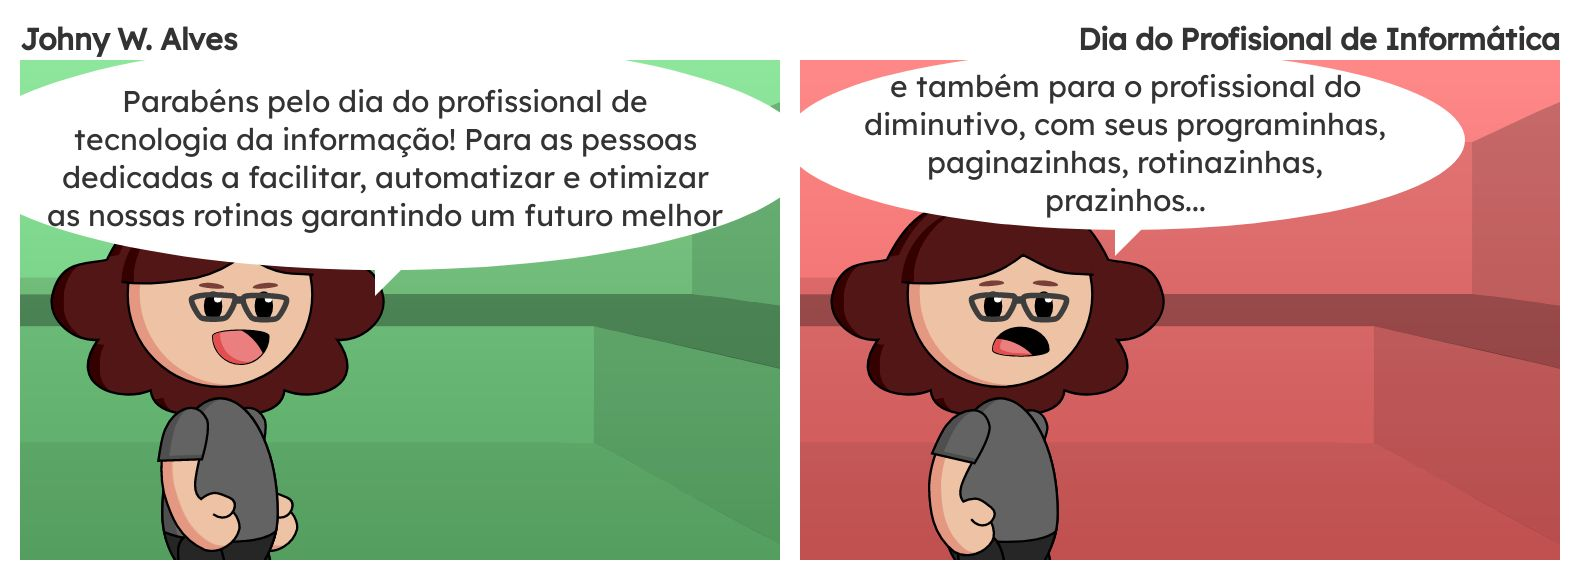
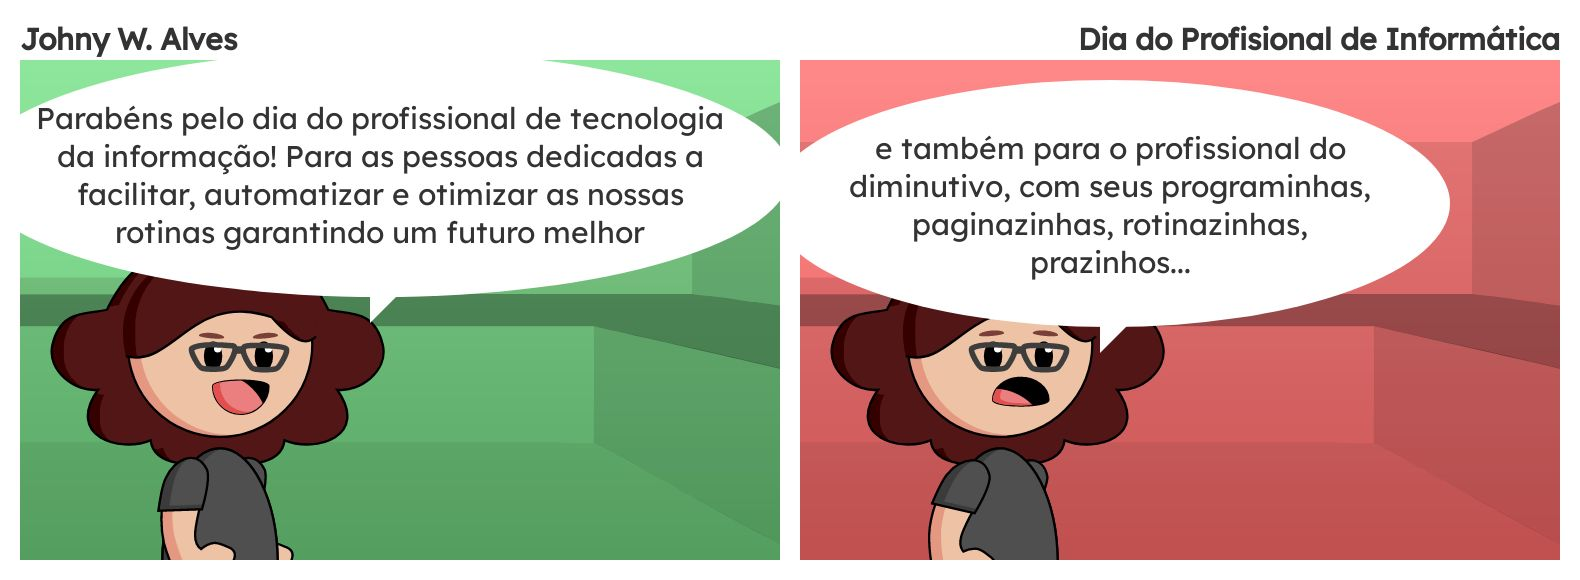
:recycle: Reorganizar as tirinhas e thumbnail

Changed region(s): [[0.0, 0.0931, 0.9304, 0.9931]]

diff --git a/posts/2022-03-08-Comic_17.md b/posts/2022-03-08-Comic_17.md
@@ -3,7 +3,7 @@ date: 2022-03-24 12:28:24 -0300
 title: Foco, Força e Fé
 category: Comic
 featuredImage: ./comics/0017.jpg
-coverImage: /comics/0017-thumb.jpg
+coverImage: /comics/0017.jpg
 number: 17
 transcription: Tirinha com título Foco, Força e Fé e conteúdo Quadro 1. Sophie e Msone conversando no escritório Msone fala "Gostaria de aproveitar esse dia da mulher para dizer como admiro seu trabalho e conhecimento técnico". Quadro 2. Sophie fala "Obrigado, você tem um futuro mais brilhante que o meu, só se dedicar aos estudos e projetos". Quadro 3. Msone fala "Calma! Admiração é uma coisa, estar disposta a alcançar os mesmos resultados é outra".
 tags:

diff --git a/posts/2022-04-01-Comic_18.md b/posts/2022-04-01-Comic_18.md
@@ -3,7 +3,7 @@ date: 2022-04-01 12:01:56 -0300
 title: Desenvolvimento Moderno
 category: Comic
 featuredImage: ./comics/0018.jpg
-coverImage: /comics/0018-thumb.jpg
+coverImage: /comics/0018.jpg
 number: 18
 transcription: Tirinha com título Desenvolvimento Moderno e conteúdo Quadro 1. Sophie e Afonso conversando no escritório Afonso fala "Aquele projeto grande que estavamos planejando, temos todos os passos para execução dele". Quadro 2. Sophie fala "Não seria melhor integrar o cliente no processo e ajustando com os retornos dos progressos?". Quadro 3. Afonso fala "Parece uma boa, mas vamos fazer do jeito mais tradicional, dá certo na engenheria civil".
 tags:

diff --git a/posts/2021-06-18-Comic_14.md b/posts/2021-06-18-Comic_14.md
@@ -3,7 +3,7 @@ date: 2021-06-18 18:27:36 -0300
 title: Belo Design
 category: Comic
 featuredImage: ./comics/0014.jpg
-coverImage: /comics/0014-thumb.jpg
+coverImage: /comics/0014.jpg
 number: 14
 transcription: Quadro 1. Rafiq na mesa desenhando Msone fala "Parabéns pela estética e inovação, mas nosso tempo é escasso vamos ter dificuldades para implementar isso". Quadro 2. Sophie entra na sala Sophie fala "Nossa! Estou ansiosa para trabalhar com algo tão belo e inovador". Quadro 3. Msone e Rafiq se olham em silêncio enquanto Sophie sai da sala. Quadro 4. Msone fala "Você sabe que vai sobrar para mim essa tarefa de qualquer maneira".
 tags:

diff --git a/posts/2020-11-26-Comic_11.md b/posts/2020-11-26-Comic_11.md
@@ -3,7 +3,7 @@ date: 2020-11-26 12:09:24 -0300
 title: Sintaxe
 category: Comic
 featuredImage: ./comics/0011.jpg
-coverImage: /comics/0011-thumb.jpg
+coverImage: /comics/0011.jpg
 number: 11
 transcription: Quadro 1 "Python". Afonso fala "Por que não está rodando?" Afonso fala "Desculpe, mas o código deve estar lindo para rodar". Quadro 2 "TypeScript". Afonso fala "Por que não está rodando?" Afonso fala "Foi mal, você não declarou todos os tipos que está usando". Quadro 3 "JavaScript". Afonso fala "Por que não está rodando?" Afonso fala "Rodando? Sempre! Só não garanto os resultados que você deseja".
 tags:

diff --git a/posts/2022-02-25-Comic_16.md b/posts/2022-02-25-Comic_16.md
@@ -3,7 +3,7 @@ date: 2022-02-25 20:32:42 -0300
 title: Vantagens
 category: Comic
 featuredImage: ./comics/0016.jpg
-coverImage: /comics/0016-thumb.jpg
+coverImage: /comics/0016.jpg
 number: 16
 transcription: Quadro 1. Afonso fala "Nossa empresa tem horário flexível, ambiente dinâmico e inovador". Quadro 2. Msone fala "Por favor leia como hora extra não remunerada, falta de planejamento e modelo de negócio tradicional". Quadro 3. Afonso fala "Temos café a vontade para ajudar na sua disposição e produtividade". Quadro 4. Msone fala "O que foi? É isso mesmo, não crítico café grátis.".
 tags:

diff --git a/posts/2022-05-06-Comic_19.md b/posts/2022-05-06-Comic_19.md
@@ -3,7 +3,7 @@ date: 2022-05-06 11:15:32 -0300
 title: Pausa para o café
 category: Comic
 featuredImage: ./comics/0019.jpg
-coverImage: /comics/0019-thumb.jpg
+coverImage: /comics/0019.jpg
 number: 19
 transcription: Tirinha com título Pausa para o café e conteúdo Quadro 1. Afonso e Msone conversando na cafeteria Afonso fala "Preciso falar com você sobre o projeto...". Quadro 2. Msone fala "Estou na pausa do café logo depois volto para a mesa e conversamos". Quadro 3. Afonso fala "Se você respondesse minhas mensagens de lá, não estava te procurando aqui".
 tags:

diff --git a/posts/2020-10-19-Comic_8.md b/posts/2020-10-19-Comic_8.md
@@ -3,7 +3,7 @@ date: 2020-10-19 13:43:08 -0300
 title: Dia do profissional de informática
 category: Comic
 featuredImage: ./comics/0008.jpg
-coverImage: /comics/0008-thumb.jpg
+coverImage: /comics/0008.jpg
 number: 8
 transcription: Quadro 1. Msone fala "Parabéns pelo dia do profissional de tecnologia da informação! Para as pessoas dedicadas a facilitar, automatizar e otimizar as nossas rotinas garantindo um futuro melhor". Quadro 2. Msone fala "e também para o profissional do diminutivo, com seus programinhas, paginazinhas, rotinazinhas, prazinhos...".
 tags:

diff --git a/posts/2022-06-16-Comic_21.md b/posts/2022-06-16-Comic_21.md
@@ -3,7 +3,7 @@ date: 2022-06-16 07:35:02 -0300
 title: Tentação
 category: Comic
 featuredImage: ./comics/0021.jpg
-coverImage: /comics/0021-thumb.jpg
+coverImage: /comics/0021.jpg
 number: 21
 transcription: Tirinha com título Tentação e conteúdo Quadro 1. Msone pensando sozinha Msone pensa "Preciso decidir como melhorar esse código..." Msone (Lado mal) fala "Deixa ele assim, você refatora depois". Quadro 2.. Quadro 3.. Quadro 4. Sol fala "Cadê a pessoa que dá bons conselhos?" Msone (Lado mal) fala "Você realmente acredita na existência dela?".
 tags:

diff --git a/posts/2022-09-13-Comic_24.md b/posts/2022-09-13-Comic_24.md
@@ -3,7 +3,7 @@ date: 2022-09-13 08:59:23 -0300
 title: Felicitações
 category: Comic
 featuredImage: ./comics/0024.jpg
-coverImage: /comics/0024-thumb.jpg
+coverImage: /comics/0024.jpg
 number: 24
 transcription: Tirinha com título Felicitações e conteúdo Quadro 1. Afonso fala "Felicitações para o dia dos desenvolvedores! Por que é hoje? Data de morte de alguém?" Sophie fala "É o dia 256 do ano! A maior elevação de 2 possível". Quadro 2. Msone fala "É numerologia e astrologia? Não sabia que eram supersticiosas!".
 tags:

diff --git a/posts/2021-12-03-Comic_15.md b/posts/2021-12-03-Comic_15.md
@@ -3,7 +3,7 @@ date: 2021-12-03 10:58:42 -0300
 title: Hype
 category: Comic
 featuredImage: ./comics/0015.jpg
-coverImage: /comics/0015-thumb.jpg
+coverImage: /comics/0015.jpg
 number: 15
 transcription: Quadro 1. Sophie e Afonso conversando no escritório Afonso fala "...então vamos colocar NFT nesse projeto.". Quadro 2. Sophie fala "Desculpe, mas não entendi o motivo, temos um servidor centralizando as operações". Quadro 3. Afonso fala "Nem sei o que é NFT. Só vamos colocar por que vende melhor.".
 tags:

diff --git a/posts/2020-10-18-Comic_7.md b/posts/2020-10-18-Comic_7.md
@@ -3,7 +3,7 @@ date: 2020-10-18 10:10:24 -0300
 title: Sonho de infância
 category: Comic
 featuredImage: ./comics/0007.jpg
-coverImage: /comics/0007-thumb.jpg
+coverImage: /comics/0007.jpg
 number: 7
 transcription: Quadro 1. Sophie fala "Por que você escolheu a área de desenvolvimento?" Msone fala "Sonho de infância, para desenvolver video game". Quadro 2. Sophie fala "Mas você trabalha o dia todo desenvolvendo soluções corporativas". Quadro 3. Msone fala "Essa é a parte do sonho de infância".
 tags:

diff --git a/posts/2022-09-09-Comic_23.md b/posts/2022-09-09-Comic_23.md
@@ -3,7 +3,7 @@ date: 2022-09-09 12:03:15 -0300
 title: Apresentação
 category: Comic
 featuredImage: ./comics/0023.jpg
-coverImage: /comics/0023-thumb.jpg
+coverImage: /comics/0023.jpg
 number: 23
 transcription: Tirinha com título Apresentação e conteúdo Quadro 1. Msone fala "Olá! Quem é você?" Johny fala "Sou o criador dessas tirinhas". Quadro 2. Msone fala "Isso faz de você... meu pai ou nosso deus?". Quadro 3. Johny fala "Isso faz de mim um desenvolvedor curioso e com tempo de sobra".
 tags:
